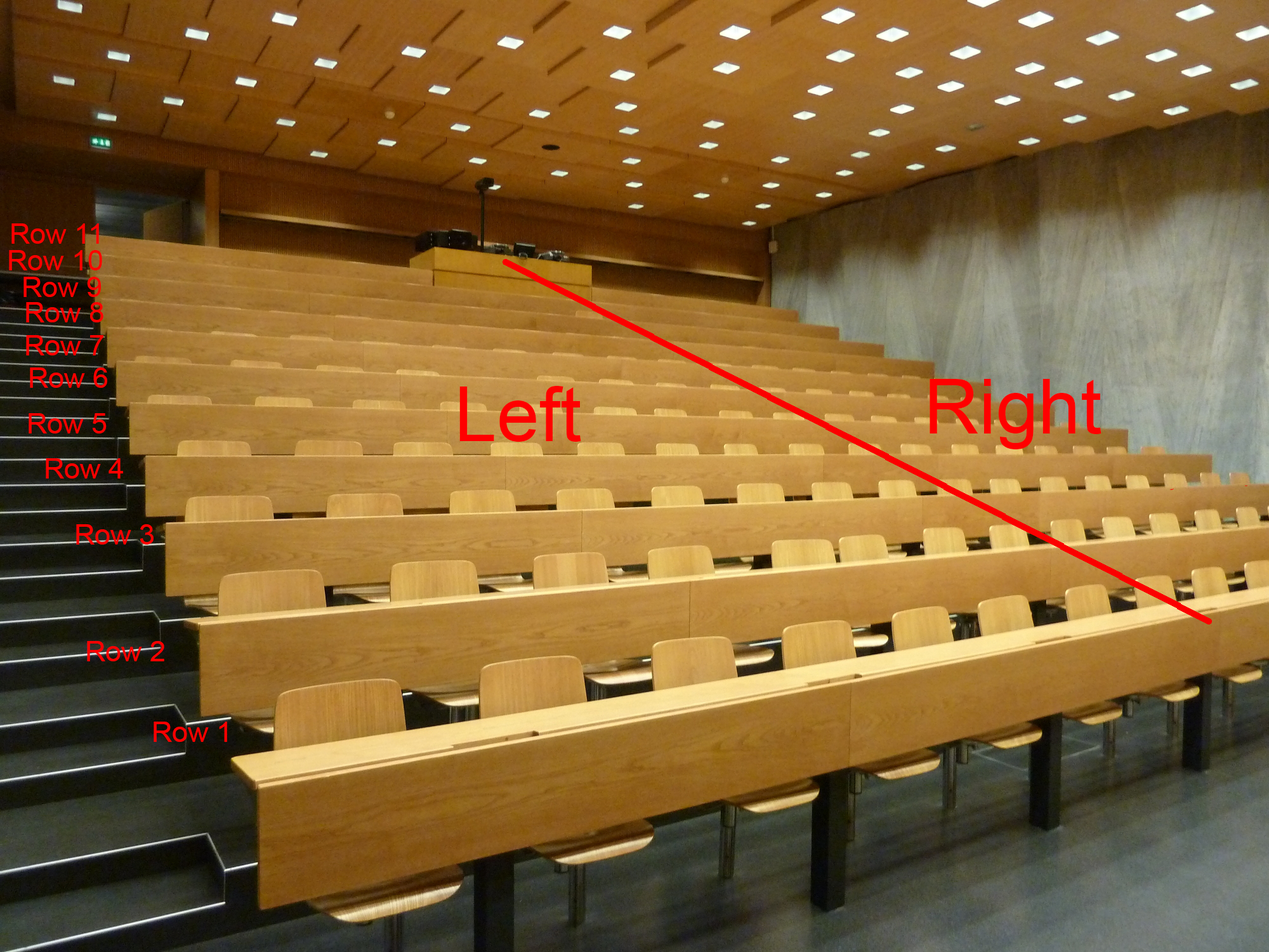
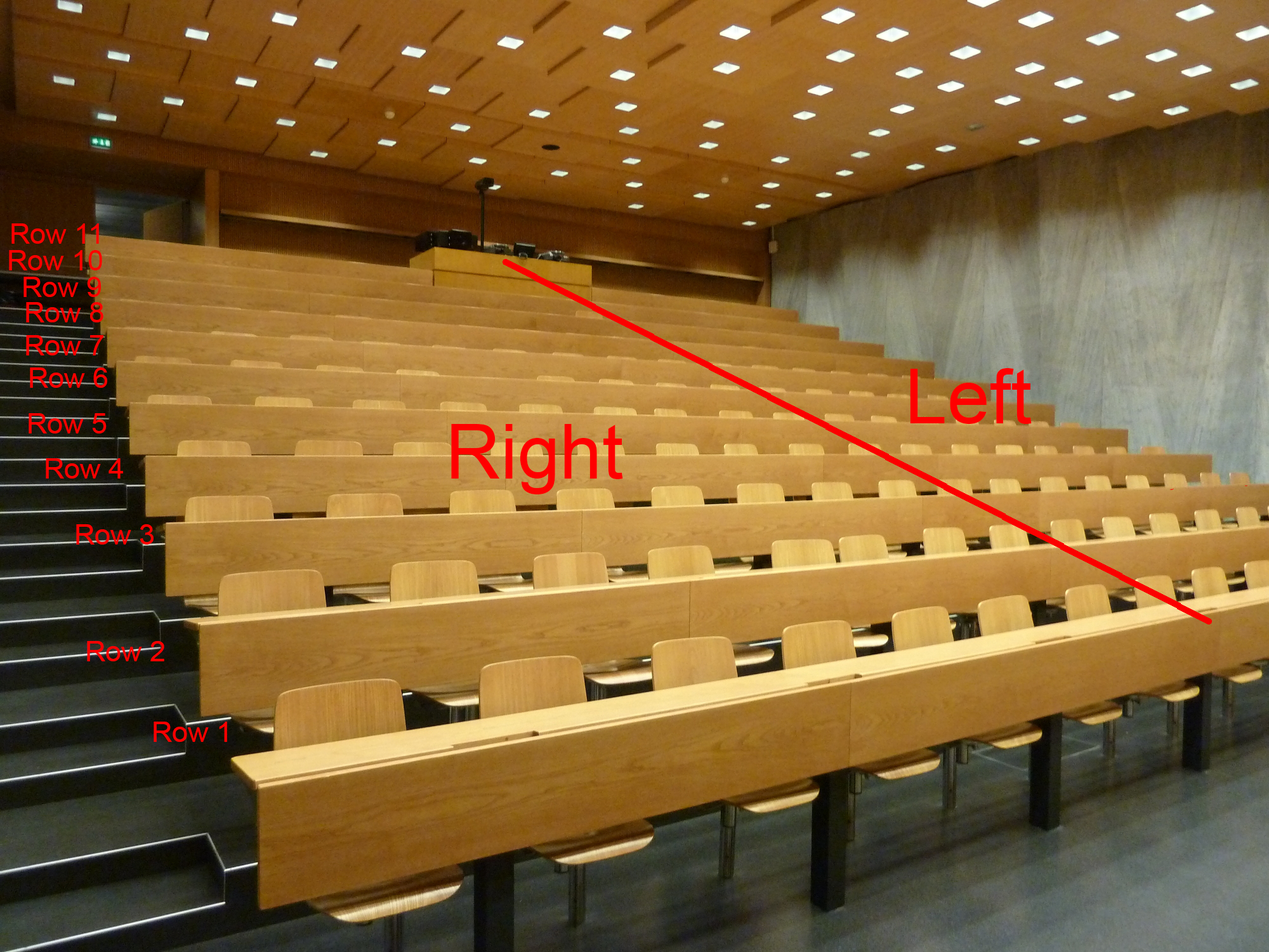
updated left and right seating

Changed region(s): [[0.341, 0.3987, 0.496, 0.5213], [0.713, 0.368, 0.868, 0.4907]]

diff --git a/README.md b/README.md
@@ -61,9 +61,9 @@ You can always find the currently active lecture registration issue
 
 ### Seat numbering
 
-In order to make sure that we can easily resolve seating conflicts, we have split the lecture hall in to _half rows.
+In order to make sure that we can easily resolve seating conflicts, we have split the lecture hall in to _half rows_.
 When a seat is assigned to you, you will receive a seat number looking like this: `4L (3)`. This means that
-you are assigned a seat in the left half (seen from the front) of the 4th row. You may sit anywhere in this half row.
+you are assigned a seat in the left half (seen from the back) of the 4th row. You may sit anywhere in this half row.
 The `(3)` is intended mainly for our reference to make certain that lecture tickets are unique.
 
 See the image below to see how the half rows are layed out.
